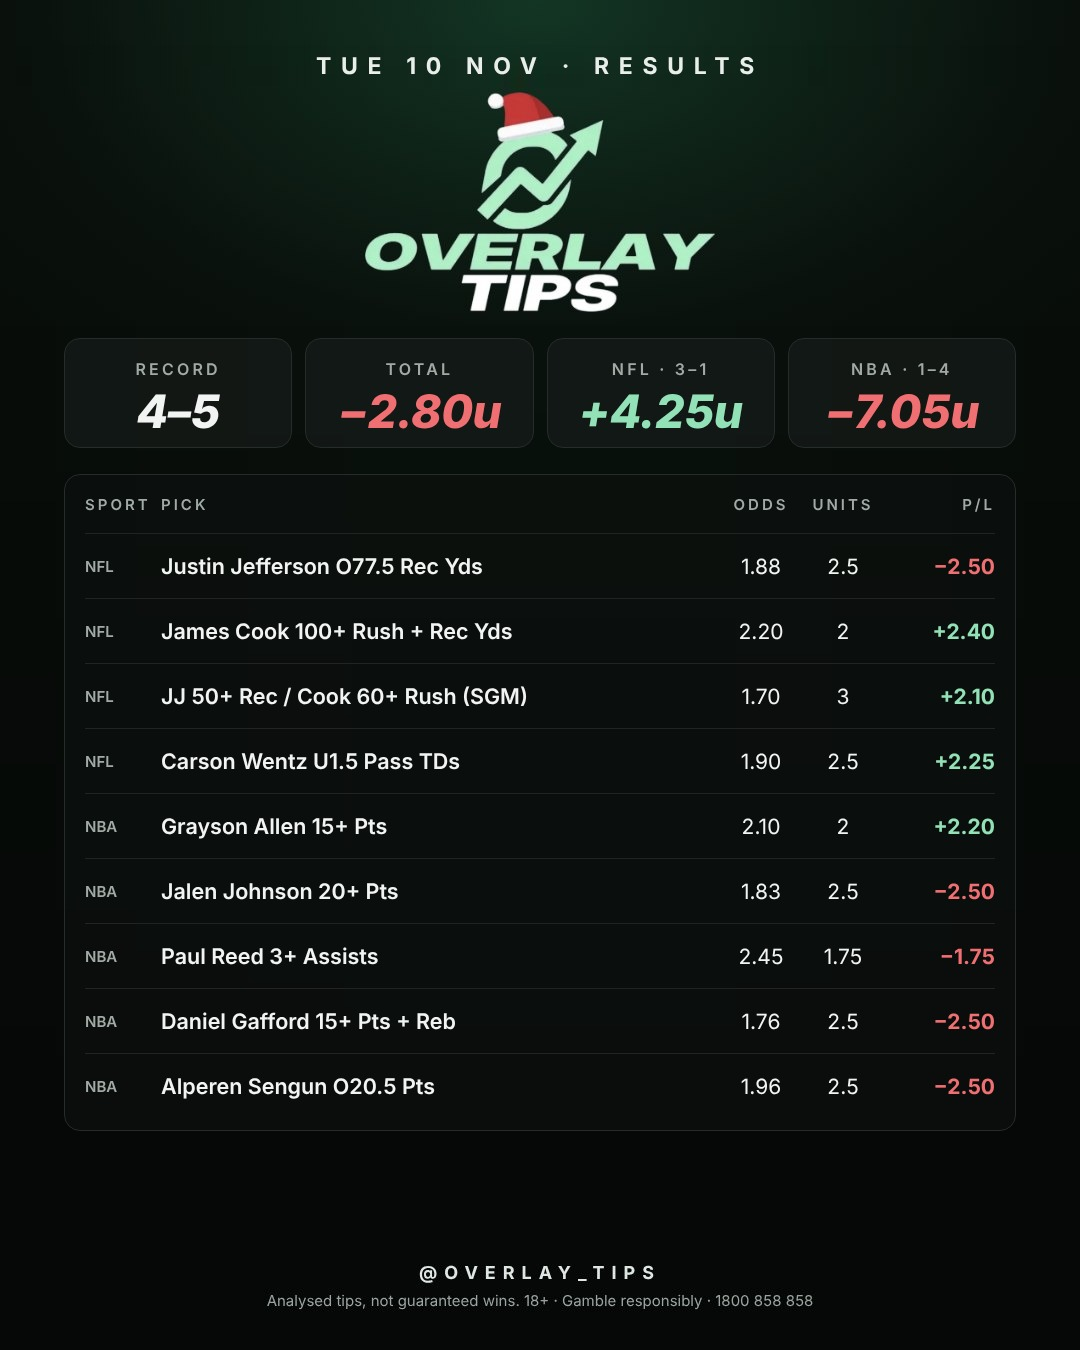
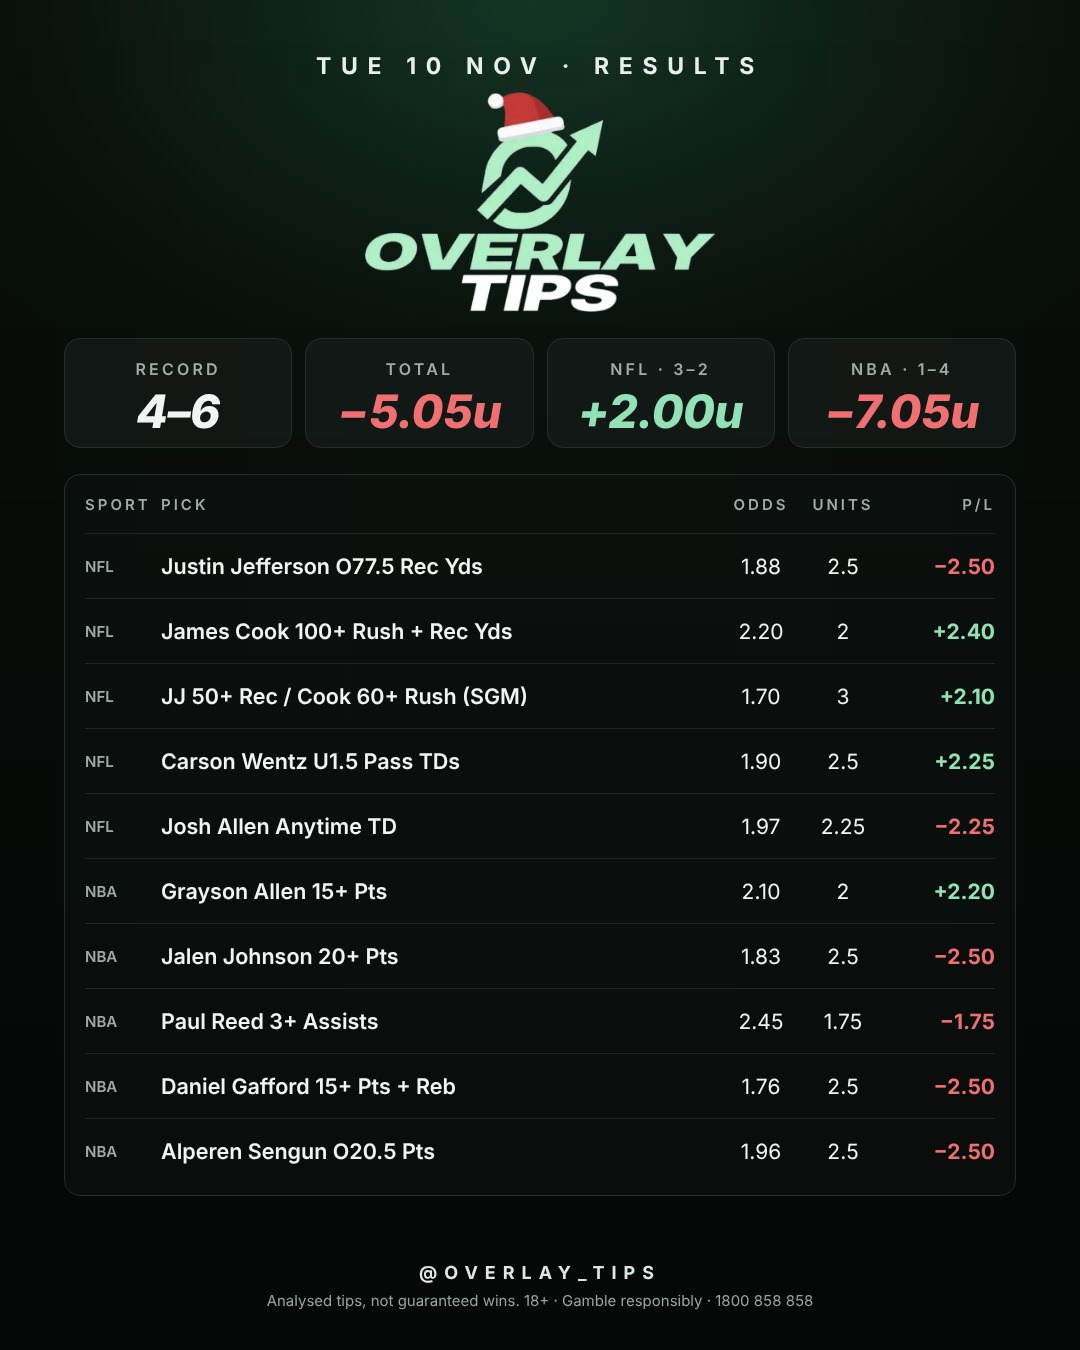
Tue 10 Nov: add Josh Allen anytime TD loss (-5.05U on the day)
Claude-Session: https://claude.ai/code/session_01NTsa8Hm8RQoRRmS2LXaXrt

diff --git a/index.html b/index.html
@@ -95,12 +95,12 @@
       <div class="chart-top">
         <div>
           <div class="mono">November · month to date</div>
-          <div class="big" id="bigNum">+75.65U</div>
-          <div class="sub"><b>$757 profit</b> for a $10 unit punter</div>
+          <div class="big" id="bigNum">+73.40U</div>
+          <div class="sub"><b>$734 profit</b> for a $10 unit punter</div>
         </div>
         <span class="live"><span class="dot"></span>TRACKED</span>
       </div>
-      <svg id="curve" viewBox="0 0 520 220" role="img" aria-label="Cumulative profit in units across November: from 0 to plus 75.65 units over nine days">
+      <svg id="curve" viewBox="0 0 520 220" role="img" aria-label="Cumulative profit in units across November: from 0 to plus 73.40 units over nine days">
         <defs>
           <linearGradient id="fade" x1="0" y1="0" x2="0" y2="1">
             <stop offset="0" stop-color="#62f0a8" stop-opacity=".28"/>
@@ -214,7 +214,7 @@
       <button class="shot" data-src="res-sat.jpg"><img src="res-sat.jpg" alt="Sat 7 Nov Stakes Day results: +24.27U on the day"><span>Sat · Stakes Day · +24.27U</span></button>
       <button class="shot" data-src="res-sun.jpg"><img src="res-sun.jpg" alt="Sun 8 Nov results: +0.26U on the day, NBL 1/1, NBA 2/4, rugby league 0/1"><span>Sun · NBA + NBL · +0.26U</span></button>
       <button class="shot" data-src="res-mon.jpg"><img src="res-mon.jpg" alt="Mon 9 Nov results: −2.22U on the day, NFL 4/5 +5.88U, NBA 1/5 −8.09U"><span>Mon · NFL + NBA · −2.22U</span></button>
-      <button class="shot" data-src="res-tue10.jpg"><img src="res-tue10.jpg" alt="Tue 10 Nov results: −2.80U on the day, NFL 3/4 +4.25U, NBA 1/5 −7.05U"><span>Tue · NFL + NBA · −2.80U</span></button>
+      <button class="shot" data-src="res-tue10.jpg"><img src="res-tue10.jpg" alt="Tue 10 Nov results: −5.05U on the day, NFL 3/5 +2.00U, NBA 1/5 −7.05U"><span>Tue · NFL + NBA · −5.05U</span></button>
     </div>
   </div>
 </section>
@@ -325,7 +325,7 @@
 </div>
 
 <div class="sticky" id="sticky">
-  <small><b>+75.65U this month</b>Free for the first 500</small>
+  <small><b>+73.40U this month</b>Free for the first 500</small>
   <a class="btn btn-mint" href="https://www.instagram.com/overlay_tips/" target="_blank" rel="noopener">Join free</a>
 </div>
 
@@ -349,14 +349,15 @@ const days = [
   {d:'Mon', n:'9 Nov', what:'NFL 4-1 · NBA 1-4', sub:'NFL +5.88U (Walker, McGowan, CMC & the Burrow SGM cashed) · NBA −8.09U', u:-2.22, staked:24.75, bets:10, won:5, img:'res-mon.jpg',
     legs:[['Burrow 2+ TDs / Brown 30+ SGM','1.72',2.5,1],['Randle O4.5 Ast','1.87',2.5,0],['McGowan O25.5 Rush Yds','1.88',2.5,1],['K. Walker III 90+ Rush Yds','1.80',2.5,1],['JSN O94.5 Rec Yds','1.88',2.25,0],['McCaffrey 60+ Rush Yds','1.85',2.5,1],['Edgecombe 20+ Pts+Reb','2.05',2.25,0],['LaMelo O21.5 Pts','1.96',2.25,1],['Celtics + Lopez U5.5 Reb SGM','1.72',2.5,0],['D. White O16.5 Pts+Reb','1.78',3,0]],
     sp:{NFL:[5.88,4,5], NBA:[-8.09,1,5]}},
-  {d:'Tue', n:'10 Nov', what:'NFL 3-1 · NBA 1-4', sub:'NFL +4.25U (Cook 100+, Wentz under & the JJ/Cook SGM cashed) · NBA −7.05U (Allen 15+ @ $2.10 cashed)', u:-2.80, staked:21.25, bets:9, won:4, img:'res-tue10.jpg',
-    legs:[['J. Jefferson O77.5 Rec Yds','1.88',2.5,0],['J. Cook 100+ Rush+Rec Yds','2.20',2,1],['JJ 50+ Rec / Cook 60+ Rush SGM','1.70',3,1],['Wentz U1.5 Pass TDs','1.90',2.5,1],['G. Allen 15+ Pts','2.10',2,1],['J. Johnson 20+ Pts','1.83',2.5,0],['P. Reed 3+ Ast','2.45',1.75,0],['Gafford 15+ Pts+Reb','1.76',2.5,0],['Sengun O20.5 Pts','1.96',2.5,0]],
-    sp:{NFL:[4.25,3,4], NBA:[-7.05,1,5]},
+  {d:'Tue', n:'10 Nov', what:'NFL 3-2 · NBA 1-4', sub:'NFL +2.00U (Cook 100+, Wentz under & the JJ/Cook SGM cashed) · NBA −7.05U (Allen 15+ @ $2.10 cashed)', u:-5.05, staked:23.50, bets:10, won:4, img:'res-tue10.jpg',
+    legs:[['J. Jefferson O77.5 Rec Yds','1.88',2.5,0],['J. Cook 100+ Rush+Rec Yds','2.20',2,1],['JJ 50+ Rec / Cook 60+ Rush SGM','1.70',3,1],['Wentz U1.5 Pass TDs','1.90',2.5,1],['Josh Allen Anytime TD','1.97',2.25,0],['G. Allen 15+ Pts','2.10',2,1],['J. Johnson 20+ Pts','1.83',2.5,0],['P. Reed 3+ Ast','2.45',1.75,0],['Gafford 15+ Pts+Reb','1.76',2.5,0],['Sengun O20.5 Pts','1.96',2.5,0]],
+    sp:{NFL:[2.00,3,5], NBA:[-7.05,1,5]},
     review:{title:'What went wrong', notes:[
       ['Sengun O20.5','Finished on 20 (11 reb, 8 ast). Missed by one. Part of the case was Denver possibly missing Murray. He played and scored 38.'],
       ['J. Johnson 20+','15 pts on 6/14, 0/3 from deep. Good price, but his recent form was up and down and 2.5U was too big.'],
       ['Gafford 15+ P+R','8 pts, 2 reb. Foul trouble (4 fouls) and Flagg took over with 43. Needed big minutes that never came.'],
       ['P. Reed 3+ Ast','Didn\'t get there. Assist props on a backup big are always swingy.'],
+      ['Josh Allen Anytime TD','Didn\'t find the end zone.'],
       ['Jefferson O77.5','Got past 50 for the SGM leg but well short of 77.5. The Vikings offence still isn\'t feeding him.']],
       changes:['Smaller units on coin-flip props','Injury news has to be confirmed, not "potentially out"','Fewer NBA props on one slate']}},
   /* legs (optional): [bet, odds, units, 1 = won / 0 = lost]   img (optional): results card image
